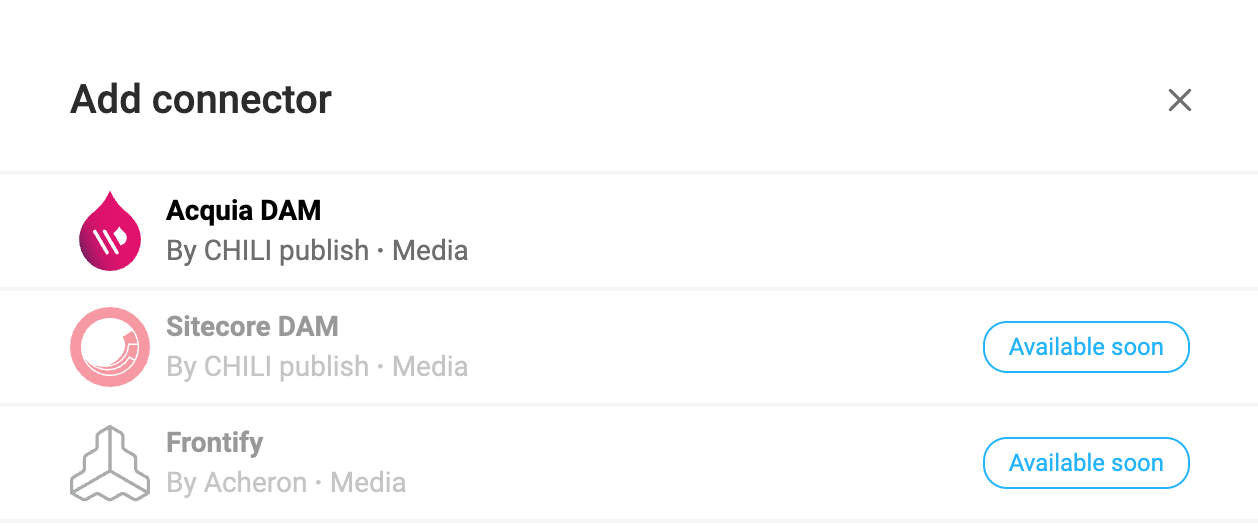
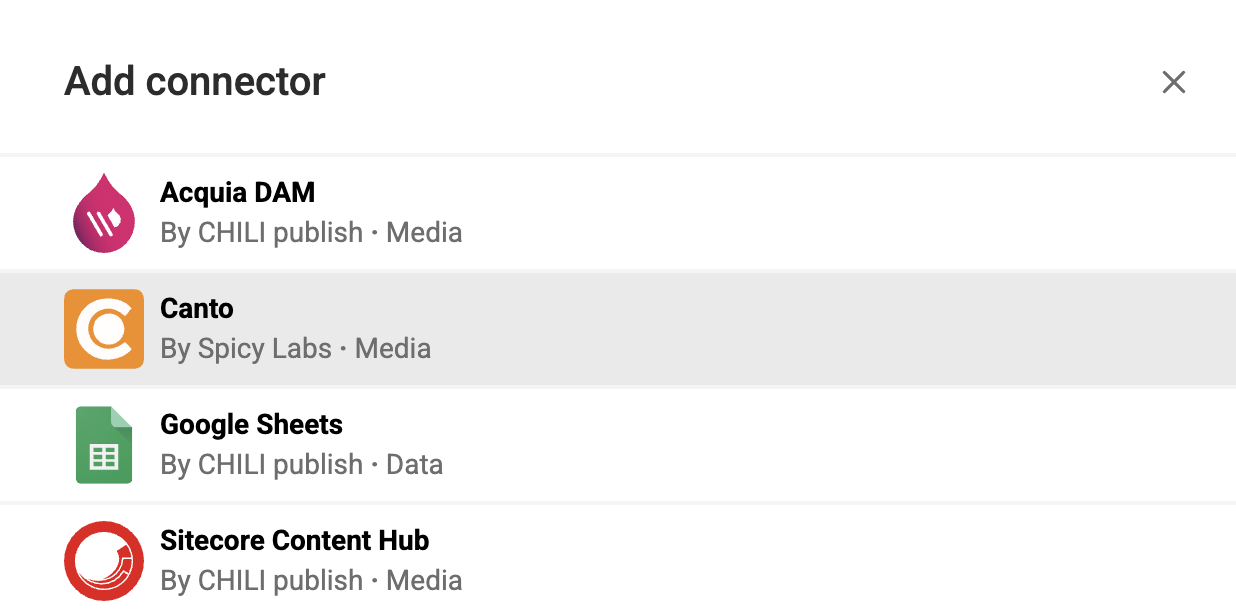
canto v1

diff --git a/docs/GraFx-Studio/connectors/connector-canto/index.md b/docs/GraFx-Studio/connectors/connector-canto/index.md
@@ -1,0 +1,118 @@
+# Media Connector for Canto
+
+:fontawesome-regular-square: Built-in  
+:fontawesome-regular-square: Built by CHILI publish  
+:fontawesome-regular-square-check: Third Party
+
+[See Connector Types](/GraFx-Studio/concepts/connectors/#types-of-connectors)
+
+## Installation
+
+As no "installation" happens, you could also talk about deployment of a connector on your environment.
+
+[See Installation Through Connector Hub](/GraFx-Studio/guides/connector-hub/)
+
+## Canto Configuration 
+
+Consult your [Canto documentation](https://support.canto.com/hc/en-us/articles/23002535539601-Generating-API-Keys) or Canto System Admin to obtain the correct values for the fields.
+
+## CHILI GraFx Connector Configuration 
+
+From the overview of Environments, click on "Settings" on the right to your environment, where you want to install or configure the Connector.
+
+![screenshot-full](sch13.jpg)
+
+Then click the installed Connector to access the configuration.
+
+![screenshot-full](sch12.png)
+
+### Configuration
+
+Your instance of the Connector needs to know which Canto instance it should communicate with and how to authenticate.
+
+![screenshot-full](sch01.png)
+
+**baseURL**
+
+Your Canto System Administrator will provide you with this information.
+
+For example
+
+```html
+https://[your-domain].canto.global
+```
+
+**Proxy settings**
+
+CHILI GraFx needs to know what domains are allowed to process
+
+For example
+
+```html
+*.canto.global
+```
+
+### Authentication
+
+![screenshot-full](sch02.png)
+
+Select your type of authentication:
+
+**Server and Browser:** OAuth 2.0 Client Credentials
+
+- **Client ID** and **Client Secret**: These are [customer-specific credentials](https://support.canto.com/hc/en-us/articles/23002535539601-Generating-API-Keys#How-to-generate-API-keys) provided by the Canto Admin.
+- **Token Endpoint**:  
+```html
+https://oauth.canto.global/oauth/api/oauth2/compatible/token
+```
+
+- **Scope**: Consult your Canto Admin to determine the appropriate scope.
+
+Consult your Canto System Admin for assistance in configuring these fields.
+
+## Using Assets from Your Canto Dam
+
+### Place Assets in Your Template
+
+- Select the Canto Connector.
+
+![screenshot-full](sch07.png)
+
+![screenshot-full](sch08.png)
+
+![screenshot-full](sch09.png)
+
+Depending on the configuration, you may need to authenticate.
+
+![screenshot-full](sch10.png)
+
+- Once authenticated, Sitecore assets behave like any other asset in GraFx Studio.
+
+### Image Variables
+
+When using [image variables](/GraFx-Studio/guides/template-variables/assign/#assign-template-variable-to-image-frame), you will see the same list of assets when selecting an image.
+
+![screenshot-full](var01.png)
+
+### Configuration Options
+
+#### Introduction
+
+To filter the assets suggested to template users, you can use categories, keywords, or other search parameters.
+
+Canto supports search queries through its query language. Consult the [Sitecore Documentation](https://doc.sitecore.com/ch/en/developers/cloud-dev/generic-properties.html) or your Canto Administrator for guidance.
+
+#### How To
+
+Queries are set at the variable level.
+
+Set the query value in the connector settings.
+
+![screenshot-full](var02.png)
+
+For more dynamic queries, you can use [variables](/GraFx-Studio/concepts/variables/), [actions](/GraFx-Studio/concepts/actions/), and [GraFx Genie](/GraFx-Studio/concepts/grafx-genie/) to automate and refine your queries.
+
+#### Other Configuration Options
+
+- **Show Only Approved Assets**: Displays only assets that have been approved in Canto.
+- **Locale**: Filters assets by region or language.
